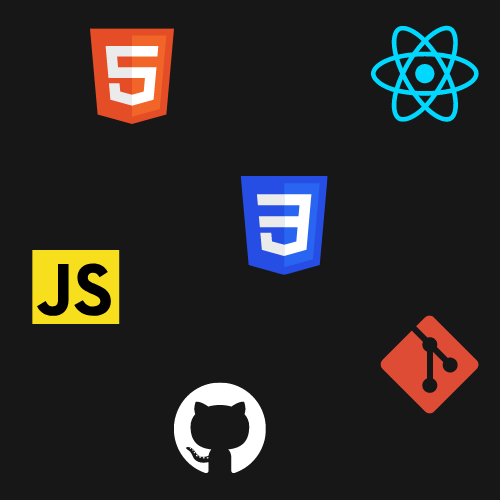
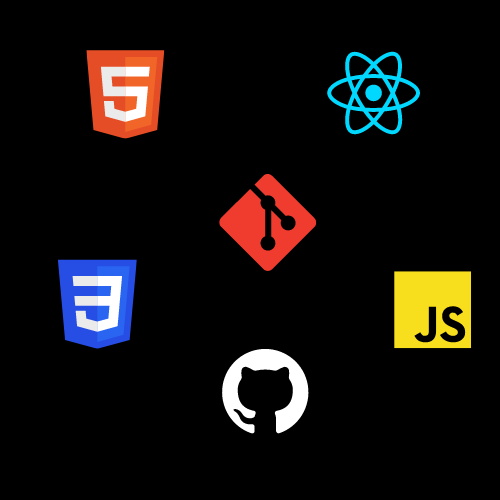
update

diff --git a/styles/style.css b/styles/style.css
@@ -1,5 +1,5 @@
 body {
-  background-color: #171717;
+  background-color: #000000;
   color: white;
   font-family: 'poppinsregular';
   margin: 0 auto;
@@ -19,7 +19,7 @@ html {
   align-items: center;
   background-color: #121212;
   border-bottom: 0.1px solid rgb(54, 53, 53);
-  margin-bottom: 110px;
+  margin-bottom: 90px;
 }
 
 * #title {
@@ -57,13 +57,15 @@ span {
   flex-direction: row;
   align-items: center;
   margin: 0 auto;
-  margin-bottom: 60px;
+  margin-bottom: 90px;
   padding: 25px;
 
 }
 
 .conteudo-principal-escrito-titulo {
   font-size: 60px;
+  align-items: center;
+  justify-items: center;
   font-family: 'poppinsmedium';
   font-weight: 5;
 }
@@ -107,7 +109,7 @@ span {
   justify-content: center;
   align-items: center;
   image-resolution: unset;
-  width: 350px;
+  width: 400px;
 }
 
 .imagem-conteudo-principal {
@@ -240,11 +242,6 @@ span {
   padding: 5px;
 }
 
-
-.conteudo-terciario-localizacao {
-  display: flex;
-}
-
 .conteudo-terciario-contatos {
   display: flex;
   align-items: center;
@@ -254,25 +251,19 @@ span {
 }
 
 .conteudo-terciario-contatos-localizacao {
-  background-color: #121212;
-  color: #ffffff;
-  font-weight: 20px;
-  font-family: 'poppinsregular';
-  font-size: 20px;
-  padding: 120px;
+  width: 50px;
+  background-color: white;
+  padding: 100px;
   border-radius: 10px;
 }
 
 .conteudo-terciario-contatos-email {
-  background-color: #121212;
-  color: #ffffff;
-  font-weight: 20px;
-  font-family: 'poppinsregular';
-  font-size: 20px;
-  padding: 120px;
+  width: 50px;
+  background-color: white;
+  padding: 100px;
   border-radius: 10px;
-
 }
+
 
 
 footer {

diff --git a/index.html b/index.html
@@ -13,7 +13,7 @@
 <body>
   <header class="cabecalho">
     <div id="title">
-      <h1><span>&lt; &frasl; &gt;	</span> vndev</h1>
+      <h1>&lt; &frasl; vn &gt;</h1>
     </div>
     <ul>
       <a href="#conteudo-principal"><li>INÍCIO</li></a>
@@ -54,8 +54,10 @@
       </div>
       <div class="conteudo-terciario-paragrafo"><p class="conteudo-terciario-escrito-paragrafo">No momento, estou em busca da minha primeira oportunidade na área de desenvolvimento front-end. </p></div>
       <div class="conteudo-terciario-contatos">
-        <h2 class="conteudo-terciario-contatos-localizacao">Localização</h2>
-        <h2 class="conteudo-terciario-contatos-email">E-mail</h2>
+        <ul>
+          <li><img class="conteudo-terciario-contatos-localizacao"src="components/images/localizacao.png" alt=""></li>
+          <li><img class="conteudo-terciario-contatos-email" src="components/images/email.png" alt=""></li>
+        </ul>
       </div>
     </section>
 
